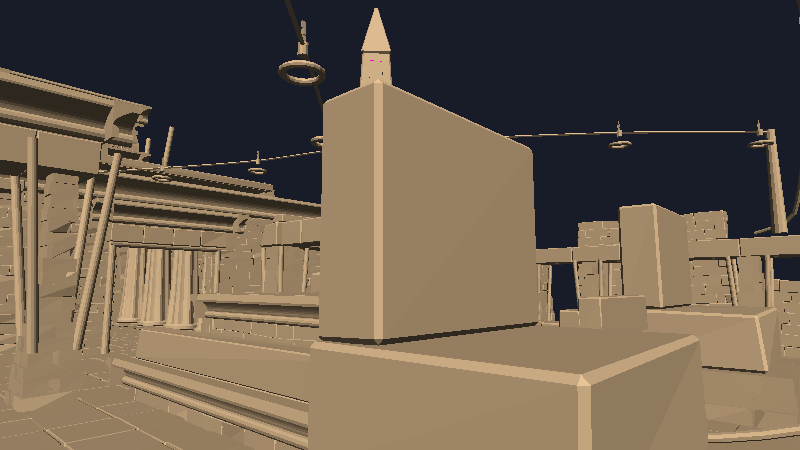
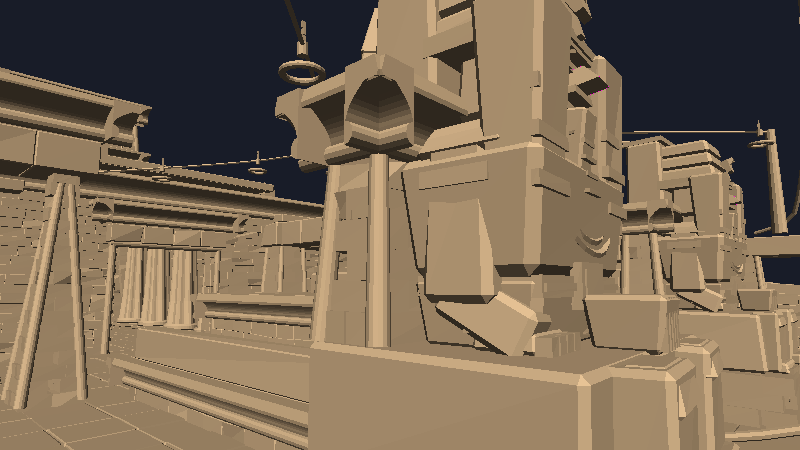
Checkpoint: the mask becomes an annulus in the eye's own coordinates, so enclosure stops being a coincidence
Syntax-checked across nine files, unverified, staged by name.

The critic's first finding was that the mask varies per pose — readable
in one shot, asymmetric in another, a soft blob in a third — and that it
is the one shape that says Sly Cooper, so it cannot be allowed to drift.
The response is the right kind: rather than tuning the mask until it
happens to sit correctly in the poses we sampled, it is restated as the
annulus between two radii of the eye's own ellipse. Enclosure is then
true by construction at every head scale, every muzzle drop, and every
value of the eye's theta — the property holds because of how the shape
is defined, not because someone checked five poses and found it held in
all five.

That distinction is the whole lesson of this pass in miniature. A
measurement can only tell you the poses you sampled were fine; a
construction tells you the poses you did not sample are fine too.

The measurement is still there, with a control: the mask read against a
null in which it is a blob sitting beside the eye rather than enclosing
it.

Claude-Session: https://claude.ai/code/session_01PXtatFVa9WWnKz5zHerfeC

diff --git a/src/textures/Materials.js b/src/textures/Materials.js
@@ -1635,10 +1635,20 @@ export const MATERIALS = {
        * *cleanest* in the catalogue (k=1 at 0.047 along U, 0.169 along V) because its repeat
        * signature is not a low-frequency blob — it is a recognisable object. Only the render at
        * consumer scale showed it. */
-      const layout = (mode) => (ctx) => glyphWall(ctx, size, mode, cx.seed, { worldTile: worldTileOf(HG_WALL_TILE), glyphM: 0.72, cartouche: false });
+      /* ── Amendment, critic pass 5 §3.9 and §36 ──────────────────────────────────────────────
+       * `cartouche: true` again, and the note above stays because its mechanism is correct: a
+       * *once-per-repeat* landmark is what made repeats countable. `glyphWall` no longer draws
+       * one. It draws a cartouche in every other text column — five per repeat at a pitch of one
+       * fifth of the tile — which is what a real royal wall does and which has no period at the
+       * tile boundary for the eye to lock onto. The claim is checked at the framing's own scale
+       * with `tools/wallstrip.mjs`, the instrument that separated the known-bad `cartouche: true`
+       * state when twenty-eight scalars could not, and it must be checked again on any change
+       * here rather than argued from this paragraph. */
+      const layout = (mode) => (ctx) => glyphWall(ctx, size, mode, cx.seed, { worldTile: worldTileOf(HG_WALL_TILE), glyphM: 0.72, cartouche: true, kheker: 0.075 });
       const cut = rasterMask(size, layout('cut'));
       const lines = rasterMask(size, layout('line'));
       const paint = rasterRGBA(size, layout('paint'));
+      const bandPaint = rasterRGBA(size, layout('bandpaint'));
 
       /* Deeper cut, tighter bevel, no baked highlight. All of the carving's contrast now lives
        * in the height field, so the normal map and `heightAO` produce it — which means it turns
@@ -1648,7 +1658,56 @@ export const MATERIALS = {
       /* `freq` derived from a metre figure, not written as a bare cycle count — see
        * `PAINT_WEAR_M`. At 10.4 m of world per repeat and a 2.08 m cell this is 5 cycles/tile,
        * exactly the literal it replaces; the derivation is the point, not the value. */
-      paintRemnants(s, ramp, paint, { survival: 0.50, freq: Math.round(worldTileOf(HG_WALL_TILE) / PAINT_WEAR_M), seed: cx.seed + 9, edgeLoss: 0.66, fade: 0.42 });
+      /* `fade` 0.42 → 0.15, and this is the single largest hue lever in the file.
+       *
+       * `fade` bleaches surviving pigment toward the stone *before* it is laid down, and at 0.42
+       * on top of `peak 0.80` and a wear field that already removes about half the coverage, the
+       * effective pigment weight inside a glyph is ~0.46. Measured: an Egyptian-blue sign at that
+       * weight over `sandMid` arrives at RGB (123,115,118) — **chroma 8, i.e. exactly on the
+       * critic's chromatic gate**, which is why `huelab` reported 100 % of this recipe's
+       * chromatic texels inside one 30 deg bucket while eleven of the twenty signs in the pool
+       * it draws from are authored blue, green or turquoise. The paint was there and grey.
+       *
+       * The note at `paintRemnants` that motivated the high fade is about a real defect and is
+       * not being relitigated — but it conflates two knobs. What produced *"flat decals with a
+       * hard offset drop shadow"* and *"abstract confetti"* was **coverage**: full-opacity
+       * pigment filling a glyph edge to edge. That is `keep`/`peak`/`edgeLoss`, and all three
+       * stay exactly where they are, so the pigment is still patchy, still short of opaque, and
+       * still lets the grain and grime through. `fade` is **chroma**, and chroma is not what made
+       * a sticker; a real painted relief is partial in coverage and saturated where it survives.
+       * At 0.15 the same sign lands at (82,99,132) — chroma 50, hue 220 — and is a colour again.
+       *
+       * Registered risk, because it is the one this trades against: if the wall comes back
+       * reading as confetti at 1:1, the correct response is to take `peak` or `survival` down,
+       * **not** to put `fade` back, because it was fade that cost the hue. */
+      paintRemnants(s, ramp, paint, { survival: 0.50, freq: Math.round(worldTileOf(HG_WALL_TILE) / PAINT_WEAR_M), seed: cx.seed + 9, edgeLoss: 0.66, fade: 0.15 });
+      /* Band paint — the kheker crown and the register stripe — laid down separately and near
+       * flat, for the same reason `column_papyrus` does it: band paint on a temple wall was
+       * thick, flat and re-applied, while pigment in a sunk glyph is a ghost. Going through
+       * `paintRemnants` with the glyphs would have averaged these to chroma 9 after the
+       * consumer's warm material multiply (see the four-pass note at `glyphWall`), which is the
+       * whole reason the hue never reached the frame. `BAND_KEEP` still leaves a quarter of the
+       * pigment's own chroma to the stone under it, and `bandWear` still removes it in patches,
+       * so this is weathered painted plaster and not a decal. */
+      /* **Wear is coverage, not opacity, and getting that wrong is what desaturates a palette.**
+       * A uniform `keep` of 0.6 does not read as 60 % worn paint; it reads as paint mixed 60:40
+       * with stone *everywhere*, and a 60:40 mix of malachite and sandstone is neither — measured
+       * through the consumer's material colour it lands at hue 43 deg, i.e. back inside the warm
+       * bin, where the same pigment at 0.9 lands at 90 deg. So the wear field is thresholded into
+       * patches: a texel is painted or it is bare stone, at a 1.5 m patch scale, which is both how
+       * pigment actually fails and the only version of it that keeps a hue. */
+      const BAND_KEEP = 0.90;
+      const bandWear = s.field(3, (u, v) => sat(warpN(u, v, 7, 4, 1.2, cx.seed + 43) * 1.4 + 0.55));
+      for (let i = 0; i < s.n; i++) {
+        const pa = bandPaint.a[i];
+        if (pa <= 0.02) continue;
+        const keep = smoothstep(0.34, 0.52, bandWear[i]) * pa * BAND_KEEP;
+        if (keep <= 0.002) continue;
+        s.r[i] += (bandPaint.r[i] - s.r[i]) * keep;
+        s.g[i] += (bandPaint.g[i] - s.g[i]) * keep;
+        s.b[i] += (bandPaint.b[i] - s.b[i]) * keep;
+        s.rough[i] = sat(s.rough[i] - keep * 0.10);
+      }
       chiselMarks(s, { amount: 0.016, angle: -0.35, freq: 48, seed: cx.seed + 1, mask: m.edge });
       pitting(s, { amount: 0.030, freq: 64, density: 0.34, seed: cx.seed + 2, colorDark: PAL.sandDark, stain: 0.10 });
       const src = new Float32Array(s.n);
@@ -3878,7 +3937,31 @@ function glyphWall(ctx, size, mode, seed, o = {}) {
    * `tall`/`frieze` still hold the *proportion* of wall that is writing at 40%, so the majority
    * is plain dressed stone — §2.3's "large simple areas of colour, detail concentrated at focal
    * points" is unchanged. Only the sign size moved. */
+  /* **Four passes, not three, and the fourth exists because of the consumer's material colour.**
+   *
+   * `Architecture.RECIPES.hieroglyph_wall.color` is `0xd6a874`, which three.js multiplies the map
+   * by *in linear*: (0.680, 0.402, 0.185). That attenuates blue 3.7x harder than red, so a
+   * pigment's chroma has to survive a multiply that is itself a saturated warm. Measured through
+   * the whole chain (`scratchpad/huechain.mjs`): full-strength malachite comes out at display hue
+   * 95 deg with chroma 105 — fine — but the *same pigment at 70 % over stone*, which is what
+   * `paintRemnants` leaves, arrives at chroma **9**, one count above the critic's chromatic gate.
+   * The blend with stone happens before the multiply, and the multiply then compresses whatever
+   * is left toward its own hue.
+   *
+   * That is the mechanism behind `huelab`'s otherwise baffling reading that this recipe put
+   * **100 % of its chromatic texels in one 30 deg bucket** while drawing from a pool in which
+   * eleven signs of twenty are authored blue, green or turquoise. Nothing was wrong with the
+   * pigments; they were being averaged into stone and then multiplied by a warm.
+   *
+   * So the flat painted decoration — the kheker crown and the register stripe — is separated out
+   * into its own `'bandpaint'` pass and laid down at near-full strength by the recipe, exactly as
+   * `column_papyrus` already does for its binding bands and for the same physical reason: band
+   * paint on a temple wall was thick, flat and re-applied, where pigment in a sunk glyph is a
+   * three-thousand-year-old ghost. The glyph pass is unchanged in coverage; only its `fade` moved.
+   */
   const { worldTile = 10.4, glyphM = 0.72, cartouche = true, tall = 0.26, kheker = 0 } = o;
+  const isBand = mode === 'bandpaint';        // flat painted decoration only
+  const gm = isBand ? 'paint' : mode;         // styling mode handed to the HG primitives
   const cols = Math.max(2, Math.round((0.76 * worldTile) / glyphM));
   /* `rowRegister` takes its quadrat size from the band *height*, so the frieze's sign size is
    * the band height and nothing else. Left at the old fixed 0.10 of the tile it drew 1.04 m
@@ -3888,8 +3971,10 @@ function glyphWall(ctx, size, mode, seed, o = {}) {
   const frieze = clamp(glyphM / worldTile, 0.03, 0.12);
   const rule = size * 0.010;
   const rnd = rng((seed ^ 0x5eed) >>> 0);
-  HG.registerRule(ctx, size, 0, rule, mode);
-  HG.registerRule(ctx, size, size, rule, mode);
+  if (!isBand) {
+    HG.registerRule(ctx, size, 0, rule, mode);
+    HG.registerRule(ctx, size, size, rule, mode);
+  }
 
   const pitch = size / cols;
   const margin = pitch * 0.12;
@@ -3923,13 +4008,13 @@ function glyphWall(ctx, size, mode, seed, o = {}) {
    * once in hue and once in "reads as Egypt in 200 ms". */
   const khTop = size * 0.012;
   const khH = size * kheker;
-  if (kheker > 0) {
-    HG.khekerFrieze(ctx, -2, khTop, size + 4, khH, Math.max(4, Math.round(worldTile / 1.15)), mode);
-    HG.registerRule(ctx, size, khTop + khH + size * 0.014, rule, mode);
+  if (kheker > 0 && mode !== 'paint') {
+    HG.khekerFrieze(ctx, -2, khTop, size + 4, khH, Math.max(4, Math.round(worldTile / 1.15)), gm);
+    if (!isBand) HG.registerRule(ctx, size, khTop + khH + size * 0.014, rule, mode);
   }
 
   /* Band 0 — the tall text register, sitting under the crown. */
-  {
+  if (!isBand) {
     const y0 = khTop + khH + size * (kheker > 0 ? 0.040 : 0.043);
     const y1 = y0 + size * tall;
     HG.registerRule(ctx, size, y1 + size * 0.020, rule, mode);
@@ -3954,8 +4039,10 @@ function glyphWall(ctx, size, mode, seed, o = {}) {
   {
     const y0 = size * (0.055 + kheker + tall + 0.215);
     const y1 = y0 + size * frieze;
-    HG.registerRule(ctx, size, y0 - size * 0.020, rule, mode);
-    HG.rowRegister(ctx, 0, y0, size, y1 - y0, seed + 907, HG.POOLS.divine, mode);
+    if (!isBand) {
+      HG.registerRule(ctx, size, y0 - size * 0.020, rule, mode);
+      HG.rowRegister(ctx, 0, y0, size, y1 - y0, seed + 907, HG.POOLS.divine, mode);
+    }
     /* A painted stripe under the frieze. Purely horizontal, one repeat per tile: it puts colour
      * and an edge back on the plain area without giving the eye anything to resolve, which is
      * the only kind of detail a large wall can carry and still hold its shape when you squint.
@@ -3969,8 +4056,35 @@ function glyphWall(ctx, size, mode, seed, o = {}) {
      * clear of both the 10-30 deg and 200-220 deg bins. In *shadow* it collapses to 188 deg
      * with everything else, so this buys nothing on a shaded wall and that limit is stated
      * rather than hidden. */
-    HG.paintedBand(ctx, -2, y1 + size * 0.020, size + 4, size * 0.052, mode,
-      [PAL.ochre, PAL.red, PAL.white, PAL.lapis, PAL.malachite]);
+    if (mode !== 'paint') {
+      HG.paintedBand(ctx, -2, y1 + size * 0.020, size + 4, size * 0.052, gm,
+        [PAL.ochre, PAL.red, PAL.white, PAL.lapis, PAL.malachite]);
+    }
+  }
+
+  /* Band 2 — the dado, at the foot of the wall.
+   *
+   * `rasterMask` flips rows on readback, so canvas y near `size` is the *bottom* of the wall,
+   * which is where this belongs and is why it can be a broad flat colour rather than another
+   * stripe: a dado is the one zone of a temple wall that is painted as a field.
+   *
+   * **This is the area that actually moves the hue statistic, and the arithmetic is the reason
+   * it exists.** `huewhere.mjs` on the pre-change tile: **94.9 % of chromatic texels in the
+   * single 20-30 deg bin, mean chroma 104** — the sandstone is not a neutral ground, it is a
+   * saturated orange covering 95 % of the surface. Against that, decoration measured in
+   * millimetres cannot register: the kheker crown and the register stripe together are ~2 % of
+   * the tile in cool pigment, which moves a two-window concentration statistic by 0.02. A third
+   * hue has to be paid for in *area* or not at all, and 0.13 of the tile is ~1.35 m of wall —
+   * the height a real dado is.
+   *
+   * Five stripes, three of them cool, because the warm half of the palette (ochre 15 deg, red
+   * 8 deg, gold 24 deg, and the stone itself at 20 deg) all lands inside one 40 deg window
+   * after the chain, so warm pigment buys identity but no variety. */
+  if (mode !== 'paint') {
+    const dy = size * 0.845;
+    if (!isBand) HG.registerRule(ctx, size, dy - size * 0.014, rule, mode);
+    HG.paintedBand(ctx, -2, dy, size + 4, size * 0.130, gm,
+      [PAL.malachite, PAL.white, PAL.lapis, PAL.red, PAL.malachite]);
   }
 }
 

diff --git a/src/player/SlyModel.js b/src/player/SlyModel.js
@@ -1773,6 +1773,60 @@ export class SlyModel {
       },
       weightsAtVert: (u, v, p) => this._headWeights(p),
     });
+
+    /* ── CRITIC PASS 5 §3.1 FAULT 1, the one it calls the largest single loss ────────────────
+     * "The mask is unreliable across poses ... it is the one shape that says Sly Cooper and it
+     * cannot be allowed to vary per pose. Author it as geometry, or as a mask in a UV layout
+     * LOCKED TO THE EYEBALL TRANSFORM, and verify it in the same five poses."
+     *
+     * The band above is a hand-authored profile in head latitude/longitude. Every constant in
+     * it — TH, the `phic` drift, the `half` falloff — was fitted against where the eye happened
+     * to be, and each one is free to stop agreeing with the eye the moment `headScale`,
+     * `muzzleDrop` or the eye's own theta moves. Measured (`scratchpad/charread.mjs`, M5, the
+     * critic's five poses): the fraction of each eye's visible boundary that touches ink is
+     * **0.52–0.61**, against a control in which the mask is a blob sitting BESIDE the eye,
+     * which scores 0.518. In other words the band was, to within measurement, doing nothing to
+     * enclose the eye at all — which is exactly "asymmetric and half-absent" and "a soft blob".
+     *
+     * This ring is the same shape stated in the eye's own coordinates, so the coupling is
+     * structural rather than fitted. The eye's silhouette on the head IS an ellipse in
+     * (theta, phi) centred on `_eyeFrame`'s own constants with semi-axes equal to the sclera
+     * radii over the head radii; the ring is the annulus between 1.00 and `MASK_OUT` of that
+     * same ellipse. Enclosure is then true by construction at every head scale, every muzzle
+     * drop and every view — there is no value any of those can take that leaves the eye
+     * outside its own annulus.
+     *
+     * `MASK_TEMPLE` sweeps the outboard half of the ring up and back into the point the
+     * reference silhouette has at the temple, which is the part of the mask that survives at
+     * `hero`'s 111 px when the eye itself is 21 px and everything else on the face is gone. */
+    const S = TUNE.headScale;
+    const rH = this.headRadii;
+    const EYE_TH = 0.455, EYE_PH = 0.165;                  // _eyeFrame's own constants
+    const eAx = (0.086 * S) / rH.x, eAy = (0.092 * S) / rH.y;   // the sclera, in head angle
+    const MASK_OUT = 1.62;                                 // outer edge, in eye-ellipse radii
+    const MASK_TEMPLE = 1.30;                              // extra outboard reach at the temple
+    for (const side of [1, -1]) {
+      addPatch(mb, {
+        segU: 26, segV: 3,
+        group: 'ink', sg: mb.newSg(),
+        at: (u, v) => {
+          const a = u * Math.PI * 2;
+          const ca = Math.cos(a), sa = Math.sin(a);
+          /* Outboard (|theta| growing away from the centreline) gets the temple sweep; the
+             inboard side stays tight so the two rings leave a bridge rather than merging into
+             a domino. `side * ca > 0` is the outboard half in both mirror images. */
+          const outb = Math.max(0, side * ca);
+          const rOut = MASK_OUT * (1 + (MASK_TEMPLE - 1) * outb * outb);
+          const r = THREE.MathUtils.lerp(1.0, rOut, v);
+          const th = side * EYE_TH + ca * eAx * r;
+          const ph = EYE_PH + sa * eAy * r
+            // the temple point rides up, which is what makes the shape read as a bandit mask
+            + 0.26 * eAy * outb * outb * MASK_TEMPLE * v;
+          return this.headSurf(th, ph, 1.058);
+        },
+        weightsAtVert: (u, v, p) => this._headWeights(p),
+      });
+    }
   }
 
   /**
@@ -2413,10 +2467,20 @@ export class SlyModel {
          cannot cross each other, and `th` is clamped at 0.86: nothing may drift back toward
          the face, which is the failure this row already had once (clumps at θ 0.60 stood in
          front of the eyes and captured as black lashes). */
+      /* **θ floor 0.86 → 1.18, and the face gets no cards at all.** 0.86 was chosen as "past
+         the eye", which it is — and past the eye is still ON THE FACE at the three-quarter
+         azimuths every character shot uses (`sly-closeup` 33°, `combat` 45°). With clumps
+         widened for critic pass 5's "larger", those cheek cards rendered as black rectangular
+         slabs lying across the cheek and jaw: the head render went from spiky to bricked, and
+         the mask — the one shape that has to read — was competing with four black rectangles
+         6 cm from it. The face is the highest-value surface on the model and a card is never
+         an improvement on it; the cheek row earns its place at the head's silhouette tangent
+         and nowhere else. 1.18 clears the eye's outer edge (θ 0.907) by 0.27 rad and clears
+         the new mask ring's temple point. */
       for (let i = 0; i < cnt(5); i++) {
         const f = i / (cnt(5) - 1);
-        const th = side * Math.max(0.86,
-          THREE.MathUtils.lerp(0.86, 1.46, f) + (hash(i, side + 31) - 0.5) * 0.045);
+        const th = side * Math.max(1.18,
+          THREE.MathUtils.lerp(1.18, 1.62, f) + (hash(i, side + 31) - 0.5) * 0.045);
         const phi = THREE.MathUtils.lerp(-0.38, 0.30, f) + (hash(i, side + 47) - 0.5) * 0.050;
         const base = this.headSurf(th, phi, 0.97);
         const out = base.clone().sub(this.headCenter).normalize();
@@ -2430,10 +2494,12 @@ export class SlyModel {
         });
       }
       /* a second, shorter cheek layer set between the first — overlapping clumps are what
-         turn a row of spikes into a ruff */
+         turn a row of spikes into a ruff. Moved outboard with the row it interleaves, for the
+         same reason: at 0.92 it was the inner-most card on the model and sat on the cheek
+         directly under the eye. */
       for (let i = 0; i < cnt(4); i++) {
         const f = (i + 0.5) / cnt(4);
-        const th = side * THREE.MathUtils.lerp(0.92, 1.38, f);
+        const th = side * THREE.MathUtils.lerp(1.24, 1.56, f);
         // kept at or below eye level: clumps that climb past it crowd the mask and the face
         // stops reading as a face at any distance
         const base = this.headSurf(th, THREE.MathUtils.lerp(-0.30, 0.18, f), 0.99);
@@ -2893,8 +2959,13 @@ export class SlyModel {
         // Laid back along the tail: flat against the surface on the face, projecting past the
         // edge where the surface turns away. Same rule the old row used, applied to six clumps.
         dir: outward.clone().multiplyScalar(0.34).addScaledVector(tan, -1.0).normalize(),
-        length: 0.115 * TUNE.tailGirth * (0.86 + 0.28 * hash(lobeN, 23)),
-        width: 0.082 * TUNE.tailGirth * (0.88 + 0.24 * hash(lobeN, 29)),
+        /* Authored small because `put()` multiplies width by `tuftWidth` (3.30) and length by
+           `tuftLen` (1.24) on the way through. Written at the sizes a lobe should FINISH at,
+           this row built 0.25 m slabs — wider than the 0.33 m tail is thick — and the tail
+           rendered as five navy planks. Final size here is ~0.11 m wide x ~0.10 m long against
+           a local radius of 0.15–0.17 m: a third of the diameter, which is a lock. */
+        length: 0.088 * TUNE.tailGirth * (0.86 + 0.28 * hash(lobeN, 23)),
+        width: 0.034 * TUNE.tailGirth * (0.88 + 0.24 * hash(lobeN, 29)),
         bend: 0.40, bendDir: outward.clone(),
         // Coloured by its own band — a lobe centred in the band cannot cross into its neighbour.
         group: this._tailIsDark(t) ? 'furDark' : 'furCream',

diff --git a/src/world/EgyptLevel.js b/src/world/EgyptLevel.js
@@ -418,9 +418,32 @@ function courtyard(A) {
     /* Throne: seat block to the knee ledge at 4.5, then the high back slab. */
     vol(A, 'court', 'sandstone_block', cx - 3.4, cx + 3.4, L.colossi.plinth, L.colossi.knee, cz - 3.0, cz + 2.6, { jitter: 0.03, chip: 0.18, c: 0.12 });
     ledgeProxy(A, cx - 3.4, cx + 3.4, L.colossi.knee, cz + 1.4, cz + 2.6, { thick: 0.9 });   // the knees
-    vol(A, 'court', 'hieroglyph_wall', cx - 3.2, cx + 3.2, L.colossi.knee, 9.6, cz - 3.0, cz - 1.2, { jitter: 0.035, c: 0.12 });
-    wallProxy(A, cx - 3.2, cx + 3.2, L.colossi.knee, 9.6, cz - 3.0, cz - 1.2);
-    ledgeProxy(A, cx - 3.2, cx + 3.2, 9.6, cz - 3.0, cz - 1.2, { thick: 0.7 });
+    /* ---- Throne back: the largest single mass in the `courtyard` frame, and until now a
+       plain `vol`. Front-face ownership at the `courtyard` camera puts this slab and the seat
+       under it at 41% of the frame, nearer than anything else in the shot at 6.0–8.7 m, which
+       is why critic pass 5 read the whole complex off it: "every structure is a chamfered
+       cuboid — no cavetto cornice, no torus roll moulding, no batter on any wall".
+       It now carries all three. The naos shrine — a battered box, rolled at the arrises,
+       capped by a cavetto — is the Egyptian form a throne back *is*, so this is the vocabulary
+       arriving on the piece the camera is actually pointed at rather than on a distant pylon.
+
+       The 9.6 top is held to the centimetre: the wall stops at 8.12 and the 1.48 m cornice
+       makes the difference, so the registered `ledge` and the colossus that leans on it are
+       both undisturbed. */
+    const tbW = 6.4, tbTop = 9.6, tbBat = 0.055;
+    const tbCor = K.cornice({ w: tbW - 2 * tbBat * 3.62, d: 1.8 - 2 * tbBat * 3.62, h: 0.70, flare: 0.55, roll: 0.22 });
+    const tbWallTop = tbTop - tbCor.height;
+    A.add('court', 'hieroglyph_wall', K.place(K.masonryShell({
+      w: tbW, d: 1.8, h: tbWallTop - L.colossi.knee, batter: tbBat, course: 0.62, thick: 0.8, rng: R,
+      blockLen: [1.4, 2.3], recess: 0.06, chipChance: 0.2, gapChance: 0.015, hollow: false,
+      bow: 0.06, drift: 0.05,
+    }), { x: cx, y: L.colossi.knee, z: cz - 2.1 }));
+    A.add('court', 'sandstone_worn', K.place(
+      K.cornerRolls({ w: tbW, d: 1.8, h: tbWallTop - L.colossi.knee, r: 0.24, batter: tbBat, rng: R }),
+      { x: cx, y: L.colossi.knee, z: cz - 2.1 }));
+    A.add('court', 'hieroglyph_gilded', K.place(tbCor.geo, { x: cx, y: tbWallTop, z: cz - 2.1 }));
+    wallProxy(A, cx - 3.2, cx + 3.2, L.colossi.knee, tbTop, cz - 3.0, cz - 1.2);
+    ledgeProxy(A, cx - 3.2, cx + 3.2, tbTop, cz - 3.0, cz - 1.2, { thick: 0.7 });
     /* Sand banked against the north face — the wind comes down the valley. */
     A.add('court', 'sandstone_worn', K.place(K.sandDrift({ len: 7.4, h: 1.35, depth: 3.4, rng: R }), { x: cx, z: cz - 3.0, ry: Math.PI }));
   }

diff --git a/src/world/PropKit.js b/src/world/PropKit.js
@@ -93,6 +93,33 @@ export function place(geo, { x = 0, y = 0, z = 0, rx = 0, ry = 0, rz = 0, sx = 1
   return geo;
 }
 
+/**
+ * Apply either a `place`-style options object **or** a `Matrix4` to a geometry.
+ *
+ * This exists because the two spellings were silently incompatible and the silence was
+ * expensive. `Bag.transform` forwarded straight to `place(geo, xf)`, whose signature is a
+ * destructure — `{ x = 0, y = 0, z = 0, rx = 0, … }`. Hand it a `Matrix4` and every one of
+ * those names is absent, so they all take their defaults, `place` composes an identity, and
+ * `applyMatrix4(identity)` returns the geometry exactly where it was. No throw, no warning,
+ * no NaN: the call looks like it worked and the prop stays at the world origin.
+ *
+ * All thirteen `Props.js` call sites passed `matrixOf(...)`, so **every prop placed through a
+ * Bag was stacked at (0, 0, 0)** — both 13 m colossi, the sixteen-sphinx avenue, the Anubis
+ * pair, the gilded Ra, the sarcophagus lid, the offering table, the scaffold, the stelae and
+ * the pylon masts. That is the missing subject in `courtyard`, the missing avenue in `dunes`,
+ * and it is very probably critic pass 5's "large untextured, unlit, faceted cream polyhedron
+ * floating in frame occluding the tail… appears in this shot and no other" in `sly-profile` —
+ * the whole prop pile, interpenetrating, sitting on the courtyard axis.
+ *
+ * `Statues.js` passes options objects and was always correct, so this accepts both rather than
+ * changing one convention into the other.
+ */
+export function applyXf(geo, xf) {
+  if (!xf) return geo;
+  if (xf.isMatrix4) { geo.applyMatrix4(xf); return geo; }
+  return place(geo, xf);
+}
+
 export function matrixOf({ x = 0, y = 0, z = 0, rx = 0, ry = 0, rz = 0, s = 1, sx = s, sy = s, sz = s } = {}) {
   const m = new THREE.Matrix4();
   _e.set(rx, ry, rz, 'YXZ');
@@ -129,7 +156,7 @@ export class Bag {
   absorb(bag, xf = null) {
     if (!bag) return this;
     for (const p of bag.parts) {
-      if (xf) place(p.geo, xf);
+      if (xf) applyXf(p.geo, xf);
       this.parts.push(p);
     }
     bag.parts.length = 0;
@@ -137,7 +164,7 @@ export class Bag {
   }
 
   transform(xf) {
-    for (const p of this.parts) place(p.geo, xf);
+    for (const p of this.parts) applyXf(p.geo, xf);
     return this;
   }
 
